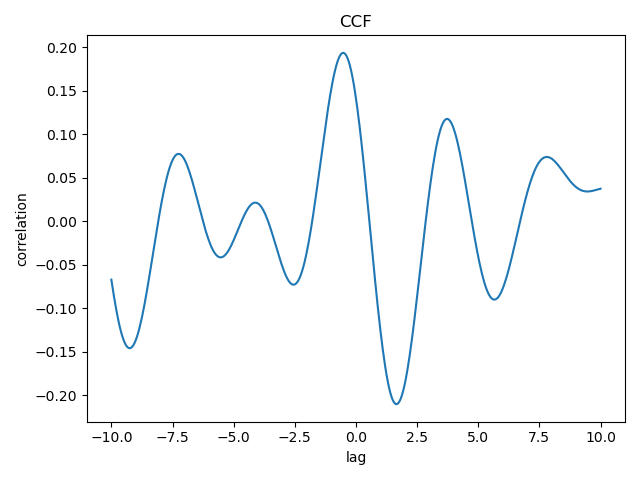
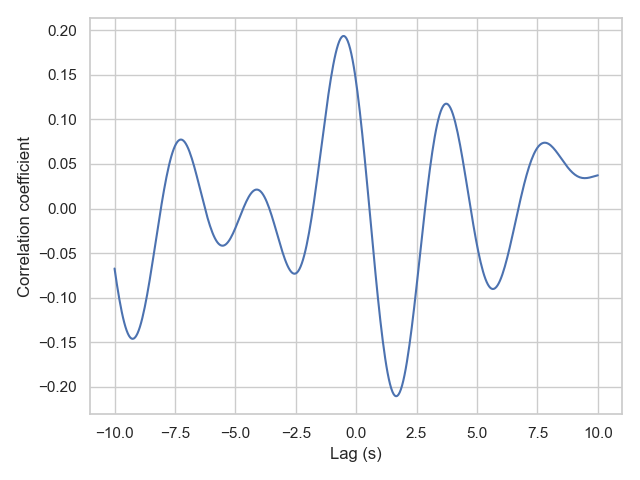
finish figure arrangement

diff --git a/analysis/FFTOPS/fftops.py b/analysis/FFTOPS/fftops.py
@@ -1,11 +1,15 @@
 import numpy as np
 import pandas as pd
 import matplotlib.pyplot as plt
+import seaborn as sns
 from scipy import signal as sig
 from scipy.stats import zscore
 from scipy import fftpack
 
 from csa.bootstrap import ccf
+
+
+sns.set(style='whitegrid')
 
 
 def add_bigaxis(fig, xlabel=None, ylabel=None,
@@ -85,11 +89,11 @@ def main():
 
     plt.subplot2grid((2, 4), (1, 0), rowspan=1)
     plt.plot(t, h_x, t, h_x_filt)
-    plt.xlabel('time')
+    plt.xlabel('time (s)')
 
     plt.subplot2grid((2, 4), (1, 1), rowspan=1)
     plt.plot(t[start:end], h_x[start:end], t[start:end], h_x_filt[start:end])
-    plt.xlabel('time')
+    plt.xlabel('time (s)')
 
     plt.subplot2grid((2, 4), (0, 2), rowspan=1)
     freqs, pows = psd(H_x_filt, 20)
@@ -101,7 +105,7 @@ def main():
     plt.subplot2grid((2, 4), (1, 2), rowspan=1)
     freqs, pows = psd(H_o_filt, 20)
     plt.plot(freqs, pows)
-    plt.xlabel('freq')
+    plt.xlabel('frequency (Hz)')
     plt.yscale('log')
     plt.xscale('log')
 
@@ -110,13 +114,13 @@ def main():
     lag, corr = ccf(h_x_filt, h_o_filt, 0.05)
     plt.plot(lag, corr)
     plt.title('CCF')
-    plt.xlabel('lag')
-    plt.ylabel('correlation')
+    plt.xlabel('lag (s)')
+    plt.ylabel('Correlation coefficient')
 
     # setting
     fig = add_bigaxis(fig, ylabel='flux')
     plt.tight_layout()
-    plt.savefig('lc_with_ccf.png')
+    plt.savefig('fig/lc_with_ccf.png')
     # plt.show()
     plt.close()
 
@@ -124,11 +128,11 @@ def main():
     fig, ax = plt.subplots()
     lag, corr = ccf(h_x_filt, h_o_filt, maxlags=10, fs=20)
     plt.plot(lag, corr)
-    plt.title('CCF')
-    plt.xlabel('lag')
-    plt.ylabel('correlation')
+    # plt.title('CCF')
+    plt.xlabel('Lag (s)')
+    plt.ylabel('Correlation coefficient')
     plt.tight_layout()
-    plt.savefig('ccf.png')
+    plt.savefig('fig/ccf.png')
     plt.show()
 
     # fig, ax = plt.subplots(2, 3, figsize=(10,7))
